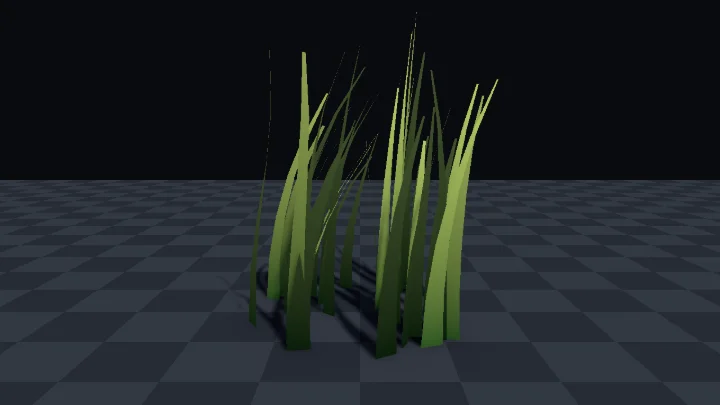
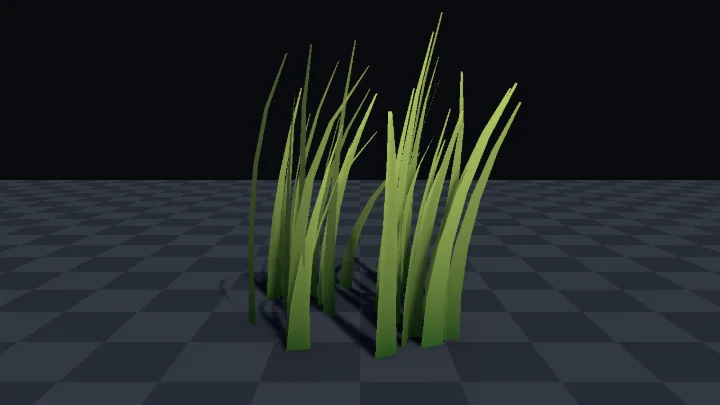
dispatch(wind-sway-foliage-fix): 표본 수정: wind-sway-foliage 리뷰 반영
Dispatch-Job: wind-sway-foliage-fix
Dispatch-Profile: org
Dispatch-Model: claude-opus-5-5

Changed region(s): [[0.3361, 0.0593, 0.7333, 0.8889], [0.4583, 0.7704, 0.4889, 0.8]]

diff --git a/web/src/specimens/wind-sway-foliage/meta.ts b/web/src/specimens/wind-sway-foliage/meta.ts
@@ -18,11 +18,12 @@ export const meta: SpecimenMeta = {
   shaderFile: 'WindSwayFoliage.shader',
   stage: { kind: 'mesh', mesh: 'grass', blend: 'cutout', vertex: true, doubleSided: true },
   params: [
-    { key: '_WindAngle', label: '바람 방향', type: 'range', min: 0, max: 360, step: 1, default: 90, unit: '°', hint: 'Unity 월드 기준, Transform 의 Y 회전과 같은 뜻이다. 0 은 +Z(화면 안쪽), 90 은 +X(화면 오른쪽), 270 은 왼쪽으로 분다' },
-    { key: '_WindStrength', label: '바람 세기', type: 'range', min: 0, max: 1, step: 0.01, default: 0.45, hint: '잎 끝이 바람 쪽으로 밀리는 거리(오브젝트 공간 미터). 클수록 깊이 눕는다. 돌풍 이벤트가 이 값을 잠깐 올린다' },
-    { key: '_Gustiness', label: '돌풍 변화', type: 'range', min: 0, max: 1, step: 0.01, default: 0.7, hint: '흘러가는 노이즈가 세기를 얼마나 바꾸는지. 0 이면 모든 잎이 고르게 기울고, 1 이면 돌풍 덩어리가 지나가는 자리만 크게 눕는다' },
+    { key: '_WindAngle', label: '바람 방향', type: 'range', min: 0, max: 360, step: 1, default: 90, unit: '°', hint: '오브젝트 공간 기준. 회전하지 않은 풀에서는 월드와 같다. Transform 의 Y 회전처럼 읽어 0 은 +Z(화면 안쪽), 90 은 +X(화면 오른쪽), 270 은 왼쪽으로 분다' },
+    { key: '_WindStrength', label: '바람 세기', type: 'range', min: 0, max: 1, step: 0.01, default: 0.45, hint: '잎 끝을 바람 쪽으로 미는 평소 세기. 클수록 깊이 눕는다. 끝이 꼭 이 거리(미터)만큼 밀리지는 않는다. 돌풍 노이즈가 자리마다 세기를 줄이거나 늘리고, 잎 길이를 지키느라 민 만큼 끝이 내려와 옆으로 간 거리가 줄어든다' },
+    { key: '_Gustiness', label: '돌풍 변화', type: 'range', min: 0, max: 1, step: 0.01, default: 0.7, hint: '흘러가는 노이즈가 세기를 얼마나 바꾸는지. 0 이면 느린 물결만 남아 잎들이 거의 고르게 기울고, 1 이면 돌풍 덩어리가 지나가는 자리만 크게 눕는다' },
     { key: '_WindSpeed', label: '바람 속도', type: 'range', min: 0, max: 3, step: 0.05, default: 1, hint: '돌풍이 흘러가는 빠르기와 떨림의 빠르기. 0 이면 기운 채 멈춘다' },
-    { key: '_Flutter', label: '잎 떨림', type: 'range', min: 0, max: 0.15, step: 0.005, default: 0.04, hint: '잎마다 위상이 다른 작은 흔들림의 폭(미터). 0 이면 잎들이 한 덩어리로만 움직인다' },
+    { key: '_Flutter', label: '잎 떨림', type: 'range', min: 0, max: 0.15, step: 0.005, default: 0.04, hint: '잎마다 위상이 다른 작은 흔들림의 폭(미터). 0 이면 떨림이 없어지고, 돌풍 노이즈를 따라 자리마다 다르게 출렁이는 큰 흔들림만 남는다' },
+    { key: '_Gust', label: '돌풍', type: 'range', min: 0, max: 1, step: 0.01, default: 0, hint: '평소에는 0 이다. C# `WindGust` 와 돌풍 버튼이 잠깐 1 로 올렸다 0 으로 되돌린다. 셰이더가 이 값의 0.4 배를 바람 세기에 더하므로 어느 세기에서도 바람을 키운다' },
     { key: '_RootColor', label: '뿌리 색', type: 'color', default: '#2e5b23', hint: '`uv.y` 0 쪽 색' },
     { key: '_TipColor', label: '끝 색', type: 'color', default: '#c4d96a', hint: '`uv.y` 1 쪽 색. 뿌리 색과 `uv.y` 로 섞는다' },
   ],
@@ -36,18 +37,18 @@ export const meta: SpecimenMeta = {
     {
       id: 'gust',
       label: '돌풍',
-      // WindGust.Gust() 와 같다. 0.35초 동안 세기를 0.4 올리고 0.75초 버틴 뒤 1.2초 동안 되돌린다 (사인 가감속).
-      tracks: [{ key: '_WindStrength', frames: [[0, 0.45], [0.35, 0.85], [1.1, 0.85], [2.3, 0.45]], ease: 'inOutSine' }],
+      // WindGust.Gust() 와 같다. 0.35초 동안 _Gust 를 0 에서 1 로 올리고 0.75초 버틴 뒤 1.2초 동안 0 으로 내린다 (사인 가감속).
+      tracks: [{ key: '_Gust', frames: [[0, 0], [0.35, 1], [1.1, 1], [2.3, 0]], ease: 'inOutSine' }],
     },
   ],
   demo: {
     fire: [{ event: 'gust', every: 6 }],
   },
   steps: [
-    { n: 1, label: '흔들림 마스크', body: '`uv.y`(뿌리 0, 끝 1)를 제곱한 값을 칠했다. 뿌리는 검고 위로 올라가며 빠르게 밝아져 위쪽 절반은 거의 흰색이다. 이 값을 곱해 밀기 때문에 밝은 곳일수록 크게 움직이고 검은 뿌리는 제자리에 있다. 제곱하면 아래쪽은 거의 움직이지 않아 막대처럼 통째로 기울지 않고 줄기가 휜다.' },
-    { n: 2, label: '큰 흔들림', body: '바람 방향은 하나로 두고 세기만 바꾼다. 잎의 밝기가 그 자리의 돌풍 노이즈다. 흰 잎은 돌풍이 센 자리라 깊이 눕고, 검은 잎은 거의 서 있다. 노이즈 덩어리가 바람 방향으로 흘러가 잎마다 밝기와 기울기가 함께 바뀐다. 이 단계는 떨림을 뺐다. 민 만큼 끝을 내려 잎 길이는 그대로다.' },
-    { n: 3, label: '떨림 더하기', body: '잎마다 위상이 다른 작은 사인 흔들림을 더했다. 위상은 잎의 오브젝트 공간 위치(`positionOS.xz`)에서 얻어 이웃 잎과 박자가 어긋난다. 수업 `FishSwim` 이 몸통 축 위치에 따라 사인으로 흔드는 것과 같은 원리다. 색은 조명 전의 잎 색이다.' },
-    { n: 4, label: '조명 곱하기', body: '잎 색에 조명을 곱했다. 최종 화면과 같다. 법선은 다시 계산하지 않는다. 그림자 패스도 같은 정점 함수를 불러 바닥 그림자가 잎과 함께 흔들린다.' },
+    { n: 1, label: '흔들림 마스크', body: '잎을 세로로 반 갈라 한쪽에는 `uv.y`(뿌리 0, 끝 1)를, 다른 쪽에는 그 제곱을 칠했다. 둘 다 뿌리는 검고 끝은 희지만, `uv.y` 쪽은 위로 고르게 밝아지고 제곱한 쪽은 아래쪽이 오래 어둡게 남다가 끝 가까이에서 빠르게 밝아진다. 그래서 잎 아래쪽이 세로로 밝은 줄과 어두운 줄로 갈려 보인다. 제곱한 값을 곱해 밀기 때문에 밝은 곳일수록 크게 움직이고 어두운 아래쪽은 거의 제자리에 있어, 막대처럼 통째로 기울지 않고 줄기가 휜다. 단계 보기는 색만 바꾸고 움직임은 어느 단계에서나 최종과 같다.' },
+    { n: 2, label: '큰 흔들림', body: '바람 방향은 하나로 두고 세기만 바꾼다. 잎의 밝기가 그 자리의 돌풍 노이즈다. 흰 잎은 돌풍이 센 자리라 깊이 눕고, 검은 잎은 덜 눕는다. 노이즈 덩어리가 바람 방향으로 흘러가 잎마다 밝기와 기울기가 함께 바뀐다. 섞어 둔 느린 사인 물결도 같은 쪽으로 흐른다. 민 만큼 끝을 내려 잎 길이는 그대로다. 돌풍 버튼은 이 세기에 `_Gust` 를 더해 어느 세기에서도 바람을 키운다.' },
+    { n: 3, label: '떨림 더하기', body: '잎마다 위상이 다른 작은 사인 흔들림을 더했다. 잎의 밝기는 지금 떨림이 어느 쪽 끝에 있는지다. 흰 잎과 검은 잎은 서로 반대쪽으로 떨고, 잎마다 제 박자로 밝아졌다 어두워진다. 위상은 잎의 오브젝트 공간 위치(`positionOS.xz`)에서 얻는다. 수업 `FishSwim` 이 몸통 축 위치에 따라 사인으로 흔드는 것과 같은 원리다. 위치로 정하므로 한 잎 안에서도 정점마다 위상이 조금 다르다. 위치에 곱하는 계수를 작게 두어 한 잎 안에서는 크게 갈리지 않게 했다. 계수를 키우면 이웃 잎과 더 어긋나지만 떨림을 올릴 때 잎이 꼬인다.' },
+    { n: 4, label: '양면 조명', body: '잎 색에 조명을 곱했다. 최종 화면과 같다. 잎은 뒷면도 그리지만 법선은 앞면 하나뿐이라, 보통 조명식이면 빛을 등진 면을 보이는 잎이 환경광만 받아 어둡게 가라앉는다. 직사광을 `abs(dot(N, L))` 로 구해 앞면이든 뒷면이든 빛을 마주한 정도만큼 똑같이 밝힌다. 얇은 잎은 빛이 비쳐 뒷면도 밝으므로 받아들일 만한 근사다. 법선은 다시 계산하지 않는다. 그림자 패스도 같은 정점 함수를 불러 바닥 그림자가 잎과 함께 흔들린다.' },
   ],
   offNote: '마스크 없이 정점 전체를 민 흔한 실수. 뿌리까지 같은 만큼 밀려 풀 다발이 휘지 않고 통째로 바닥 위를 미끄러진다. 그림자 패스에 정점 변형을 넣지 않은 실수도 함께 보여 준다. 잎은 움직이는데 바닥 그림자는 원래 자리에 가만히 있다.',
   mistakes: [
@@ -55,23 +56,23 @@ export const meta: SpecimenMeta = {
     { title: '잎은 흔들리는데 그림자는 가만히 있다', body: '`ShadowCaster` 패스의 정점 함수가 `sgVertex` 를 부르지 않으면 그림자는 원래 모양 그대로다. `DepthOnly`, `DepthNormals` 도 마찬가지라 SSAO 나 깊이를 읽는 효과가 어긋난다. 이 래퍼는 네 패스가 모두 같은 `vert` 를 쓴다.' },
     { title: '모든 풀이 한 몸처럼 똑같이 흔들린다', body: '떨림의 위상이 모두 같으면 풀밭이 한 장의 판처럼 움직인다. 이 표본은 `positionOS.xz` 에서 위상을 얻는다. 그런데 같은 풀 프리팹을 여러 개 놓으면 오브젝트 공간 위치가 모두 같아 덩어리끼리 똑같이 흔들린다. 래퍼의 `vert` 에서 `float3 o = TransformObjectToWorld(float3(0.0, 0.0, 0.0)); o.y = 0.0;` 를 구해 `sgVertex(v.positionOS.xyz + o, ...) - o` 로 부르면 돌풍과 위상이 월드 위치를 따른다.' },
     { title: '세게 불면 잎이 늘어나 키가 커진다', body: '옆으로만 밀면 뿌리에서 끝까지 거리가 늘어 잎이 길어진다. 뿌리에서 정점까지 길이를 재 두고, 민 방향으로 기울인 뒤 같은 길이로 맞춘다(`normalize` 한 뒤 원래 높이를 곱한다). 옆으로 간 만큼 끝이 내려온다. 이 계산은 뿌리가 y = 0 인 메시 기준이다.' },
-    { title: 'Shader.SetGlobalFloat 로 바꿔도 풀이 그대로다', body: '`Properties` 와 `CBUFFER` 에 있는 값은 머티리얼 값이 이겨서 전역 값이 들어가지 않는다. 여러 풀을 한 번에 흔들 값(예: `_GlobalGust`)은 `Properties` 에 넣지 말고 `CBUFFER` 밖에 `float _GlobalGust;` 로 따로 선언한 뒤 `_WindStrength` 에 곱하거나 더한다. 그러면 C# 한 줄 `Shader.SetGlobalFloat("_GlobalGust", 값)` 이 모든 풀 머티리얼에 들어가고, 머티리얼 복사본도 만들지 않는다.' },
+    { title: 'Shader.SetGlobalFloat 로 바꿔도 풀이 그대로다', body: '`Properties` 와 `CBUFFER` 에 있는 값은 머티리얼 값이 이겨서 전역 값이 들어가지 않는다. 여러 풀을 한 번에 흔들려면 돌풍 값 `_Gust` 를 `Properties` 와 `CBUFFER` 에서 빼고, `CBUFFER` 밖에 `float _Gust;` 로 따로 선언한다. 셰이더는 지금처럼 `_Gust` 를 바람 세기에 더한다. 그러면 C# 한 줄 `Shader.SetGlobalFloat("_Gust", 값)` 이 모든 풀 머티리얼에 들어가고, 머티리얼 복사본도 만들지 않는다. `WindGust` 의 `material.SetFloat` 도 `Shader.SetGlobalFloat` 로 바꾸고 `_Gust` 를 0 에서 올렸다 0 으로 내리는 것은 그대로 둔다.' },
   ],
   unity: {
     setup: [
       '`WindSwayFoliage.shader`, `core.hlsl`, `WindGust.cs` 를 `Assets/Shaders/wind-sway-foliage/` 에 둔다.',
       'Project 창에서 셰이더를 우클릭해 Create > Material 로 머티리얼을 만든다.',
-      '풀 메시의 MeshRenderer 에 머티리얼을 넣는다. 메시는 피벗이 뿌리(y = 0)에 있고 UV 의 v 가 뿌리 0 에서 끝 1 이어야 한다. 바람 방향은 Transform 의 Y 회전처럼 각도로 넣는다 (0 은 +Z, 90 은 +X).',
-      '돌풍이 필요하면 같은 오브젝트에 `WindGust` 를 붙인다. 폭발이나 탈것 통과 같은 이벤트의 UnityEvent 에 `Gust()` 를 연결하거나, Auto Interval 에 초를 넣어 저절로 불게 한다.',
+      '풀 메시의 MeshRenderer 에 머티리얼을 넣는다. 메시는 피벗이 뿌리(y = 0)에 있고 UV 의 v 가 뿌리 0 에서 끝 1 이어야 한다. 바람 방향은 Transform 의 Y 회전처럼 각도로 넣는다 (0 은 +Z, 90 은 +X). 오브젝트 공간 기준이라 회전하지 않은 풀에서는 월드와 같다.',
+      '돌풍이 필요하면 같은 오브젝트에 `WindGust` 를 붙인다. 폭발이나 탈것 통과 같은 이벤트의 UnityEvent 에 `Gust()` 를 연결하거나, Auto Interval 에 초를 넣어 저절로 불게 한다. 머티리얼의 돌풍 값은 0 으로 둔다. 스크립트가 잠깐 올렸다 0 으로 되돌린다.',
     ],
-    verify: '바람 세기를 올리면 잎 끝이 바람 방향 쪽으로 더 깊이 눕고 뿌리는 제자리에 있으며, 바닥 그림자도 잎과 함께 흔들린다. 바람 방향을 270 으로 바꾸면 반대쪽으로 눕는다.',
+    verify: '바람 세기를 올리면 잎 끝이 바람 방향 쪽으로 더 깊이 눕고 뿌리는 제자리에 있으며, 바닥 그림자도 잎과 함께 흔들린다. 바람 방향을 270 으로 바꾸면 반대쪽으로 눕고, `Gust()` 를 부르면 바람 세기가 얼마든 잠깐 더 깊이 누웠다가 돌아온다.',
     pitfalls: [
       '이 셰이더는 불투명 3D 메시용이다. 2D Renderer 는 `Universal2D` 와 `SRPDefaultUnlit` 태그만 그리므로 `UniversalForwardOnly` 패스가 그려지지 않는다. 3D 프로젝트(Universal Renderer)에서 쓴다.',
       '바람 방향, 세기, 노이즈는 오브젝트 공간에서 계산한다. 풀 오브젝트를 Y 로 돌리면 바람 방향도 함께 돌고, 스케일을 키우면 흔들림도 함께 커진다. 풀은 돌리지 않고 놓거나, 돌린 만큼 바람 방향 값을 빼서 넣는다.',
-      '정적 배칭: Batching Static 을 켠 물체는 플레이와 빌드에서 정점이 월드 좌표로 합쳐져 `positionOS` 가 월드 위치가 된다. 바닥 높이가 0 이 아니면 뿌리가 y = 0 이 아니게 되어 길이 보정이 어긋나 세게 불 때 잎이 늘어난다. 풀 오브젝트는 Inspector 의 Static 에서 Batching Static 을 끈다.',
-      '정점을 밀어도 Renderer 의 Bounds 는 원래 모양 그대로다. 풀이 화면 가장자리에 있으면 원래 Bounds 가 화면 밖으로 나가는 순간, 화면 안쪽으로 누운 잎까지 통째로 사라질 수 있다. 세기를 잎 높이의 절반 안쪽으로 두거나 메시의 `bounds` 를 넉넉히 키운다.',
+      '정적 배칭: Batching Static 을 켠 물체는 플레이와 빌드에서 정점이 월드 좌표로 합쳐져 `positionOS` 가 월드 위치가 된다. 그러면 바람 방향과 돌풍 노이즈, 떨림 위상이 월드 기준으로 바뀌어, Y 로 돌린 풀은 편집 모드와 플레이 모드에서 다른 쪽으로 분다. 바닥 높이가 0 이 아니면 뿌리가 y = 0 이 아니게 되어 길이 보정도 어긋나 세게 불 때 잎이 늘어난다. 풀 오브젝트는 Inspector 의 Static 에서 Batching Static 을 끈다.',
+      '정점을 밀어도 Renderer 의 Bounds 는 원래 모양 그대로다. 풀이 화면 가장자리에 있으면 원래 Bounds 가 화면 밖으로 나가는 순간, 화면 안쪽으로 누운 잎까지 통째로 사라질 수 있다. 돌풍까지 더한 세기를 잎 높이의 절반 안쪽으로 두거나 메시의 `bounds` 를 넉넉히 키운다.',
       'Scene 뷰에서 흔들리지 않으면 Scene 뷰 툴바의 Effects 메뉴에서 Always Refresh 를 켠다. 편집 모드에서는 화면을 다시 그릴 때만 `_Time` 이 흐른다.',
-      '얇은 잎을 양면(`Cull Off`)으로 그리면 잎이 자기 그림자에 줄무늬(그림자 여드름)가 생길 수 있다. 직접 확인하지는 않았다. 생기면 Directional Light 의 Shadows > Bias 에서 Depth, Normal 값을 조금 올린다.',
+      '얇은 잎을 양면(`Cull Off`)으로 그리면 잎이 자기 그림자에 줄무늬(그림자 여드름)가 생길 수 있다. 생기면 Directional Light 의 Shadows > Bias 에서 Depth, Normal 값을 조금 올린다.',
     ],
     graph: 'Shader Graph 에서는 Graph Settings 의 Render Face 를 Both 로 두고, 계산한 위치를 Vertex 의 Position 에 넣는다. Shader Graph 는 이 위치를 그림자와 깊이 패스에도 함께 쓰므로 그림자가 따로 놀지 않는다. `core.hlsl` 을 Custom Function 의 File 모드로 바로 읽으면 `SgInput` 과 머티리얼 값 선언이 없어 컴파일되지 않는다. 노드로 옮길 때는 UV 노드의 G(y)를 제곱한 마스크, Time 노드, Position(Object) 노드의 XZ 로 만든 Gradient Noise 를 같은 식으로 잇고, 길이 보정은 String 모드 Custom Function 에 `sgVertex` 의 마지막 네 줄을 옮긴다.',
   },
@@ -98,7 +99,7 @@ export const meta: SpecimenMeta = {
       link: 'https://gdcvault.com/play/1027214/Advanced-Graphics-Summit-Procedural-Grass',
     },
   ],
-  original: '특정 게임의 재현이 아니라 널리 쓰이는 정점 바람 기법을 이 갤러리에서 새로 작성했다. 수업 XR 04 Reel And Fish 의 `FishSwim` 은 물고기 몸통 축의 위치에 따라 정점을 사인으로 흔들고 위상을 C# 이 넘긴다. 이 표본은 같은 원리를 일반화했다. 흔들 정도는 `uv.y` 마스크가, 잎마다 다른 위상은 C# 대신 오브젝트 공간 위치가 정하고, 그 위에 바람 방향으로 흘러가는 노이즈 돌풍과 잎 길이 보정, 그림자까지 함께 미는 패스 구성을 더했다. 수업 3D 05 Terrain 의 풀과 나무에도 같은 방식을 쓸 수 있다.',
+  original: '특정 게임의 재현이 아니라 널리 쓰이는 정점 바람 기법을 이 갤러리에서 새로 작성했다. 수업 XR 04 Reel And Fish 의 `FishSwim` 은 물고기 몸통 축의 위치에 따라 정점을 사인으로 흔들고 위상을 C# 이 넘긴다. 이 표본은 같은 원리를 일반화했다. 흔들 정도는 `uv.y` 마스크가, 잎마다 다른 위상은 C# 대신 오브젝트 공간 위치가 정하고, 그 위에 바람 방향으로 흘러가는 노이즈 돌풍과 잎 길이 보정, 그림자까지 함께 미는 패스 구성을 더했다. 수업 3D 05 Terrain 의 풀과 나무에도 같은 방식을 쓸 수 있다. 다만 Terrain 의 디테일과 나무는 인스턴스마다 Y 로 무작위 회전해 놓이므로, 오브젝트 공간으로 계산하는 이 바람은 풀과 나무마다 다른 쪽으로 분다. 한 방향으로 불게 하려면 바람 방향을 월드에서 오브젝트 공간으로 바꿔 넣어야 한다.',
   references: [
     { label: 'GDC 2021 Advanced Graphics Summit: 절차적 풀 발표', url: 'https://gdcvault.com/play/1027214/Advanced-Graphics-Summit-Procedural-Grass' },
     { label: 'Game Developer: 소용돌이 입자로 바람 시뮬레이션하기 (GDC 2022 요약)', url: 'https://gamedeveloper.com/design/using-vorticles-to-simulate-wind-in-i-ghost-of-tsushima-i-' },

diff --git a/Assets/Shaders/wind-sway-foliage/WindGust.cs b/Assets/Shaders/wind-sway-foliage/WindGust.cs
@@ -1,4 +1,5 @@
-// 돌풍: 풀 머티리얼의 바람 세기(_WindStrength)를 잠깐 올렸다가 되돌린다. 폭발, 헬리콥터, 지나가는 탈것 같은 이벤트에 연결한다.
+// 돌풍: 풀 머티리얼의 돌풍 값(_Gust)을 0 에서 올렸다가 0 으로 내린다. 폭발, 헬리콥터, 지나가는 탈것 같은 이벤트에 연결한다.
+// 셰이더가 _Gust 를 평소 바람 세기(_WindStrength)에 더하므로, 세기를 얼마로 두었든 돌풍은 늘 바람을 키운다.
 using System.Collections;
 using UnityEngine;
 
@@ -7,10 +8,11 @@ namespace ShaderGallery.Samples
     [RequireComponent(typeof(Renderer))]
     public class WindGust : MonoBehaviour
     {
-        static readonly int WindStrength = Shader.PropertyToID("_WindStrength");
+        static readonly int GustId = Shader.PropertyToID("_Gust");
 
-        [Tooltip("돌풍이 평소 세기에 더하는 값")]
-        [SerializeField] float extraStrength = 0.4f;
+        [Tooltip("돌풍이 가장 셀 때의 _Gust 값 (0~1). 1 이면 바람 세기에 0.4 를 더한 만큼 분다")]
+        [Range(0f, 1f)]
+        [SerializeField] float peak = 1f;
         [SerializeField] float riseSeconds = 0.35f;
         [SerializeField] float holdSeconds = 0.75f;
         [SerializeField] float fallSeconds = 1.2f;
@@ -18,16 +20,15 @@ namespace ShaderGallery.Samples
         [SerializeField] float autoInterval = 0f;
 
         Material material;
-        float calmStrength;
         float nextAuto;
 
         void Awake()
         {
             // 이 물체 전용 복사본을 쓴다. 공유 머티리얼을 고치면 같은 머티리얼의 풀이 모두 함께 흔들린다.
-            // 여러 풀을 한꺼번에 흔들려면 셰이더에 전역 값을 두고 Shader.SetGlobalFloat 를 쓴다 (해설 참고).
+            // 여러 풀을 한꺼번에 흔들려면 셰이더의 _Gust 를 전역 값으로 바꾸고 Shader.SetGlobalFloat 를 쓴다 (해설 참고).
             material = GetComponent<Renderer>().material;
-            // 머티리얼에 넣어 둔 세기를 평소 바람으로 삼고 돌풍이 끝나면 여기로 돌아온다.
-            calmStrength = material.GetFloat(WindStrength);
+            // 머티리얼에 시험 삼아 넣어 둔 값이 남지 않게 돌풍 없이 시작한다.
+            material.SetFloat(GustId, 0f);
         }
 
         void OnEnable()
@@ -58,22 +59,21 @@ namespace ShaderGallery.Samples
 
         IEnumerator Blow()
         {
-            // 돌풍 도중에 다시 불면 지금 세기에서 이어 올려 값이 튀지 않는다.
-            float start = material.GetFloat(WindStrength);
-            float peak = calmStrength + extraStrength;
+            // 돌풍 도중에 다시 불면 지금 값에서 이어 올려 값이 튀지 않는다.
+            float start = material.GetFloat(GustId);
             for (float t = 0f; t < riseSeconds; t += Time.deltaTime)
             {
-                material.SetFloat(WindStrength, Ease(start, peak, t / riseSeconds));
+                material.SetFloat(GustId, Ease(start, peak, t / riseSeconds));
                 yield return null;
             }
-            material.SetFloat(WindStrength, peak);
+            material.SetFloat(GustId, peak);
             yield return new WaitForSeconds(holdSeconds);
             for (float t = 0f; t < fallSeconds; t += Time.deltaTime)
             {
-                material.SetFloat(WindStrength, Ease(peak, calmStrength, t / fallSeconds));
+                material.SetFloat(GustId, Ease(peak, 0f, t / fallSeconds));
                 yield return null;
             }
-            material.SetFloat(WindStrength, calmStrength);
+            material.SetFloat(GustId, 0f);
         }
 
         // 천천히 출발해 천천히 멈춘다 (사인 가감속). 갤러리 이벤트의 inOutSine 과 같은 곡선이다.
@@ -84,11 +84,11 @@ namespace ShaderGallery.Samples
 
         void OnDisable()
         {
-            // 돌풍 도중에 꺼져도 센 바람으로 남지 않게 평소 세기로 되돌린다.
+            // 돌풍 도중에 꺼져도 센 바람으로 남지 않게 돌풍 값을 0 으로 되돌린다.
             StopAllCoroutines();
             if (material != null)
             {
-                material.SetFloat(WindStrength, calmStrength);
+                material.SetFloat(GustId, 0f);
             }
         }
 
